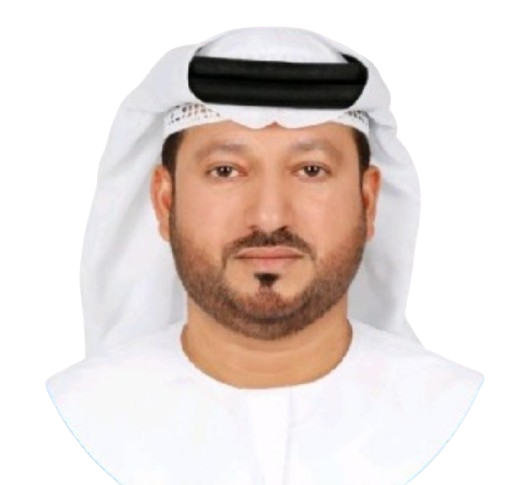
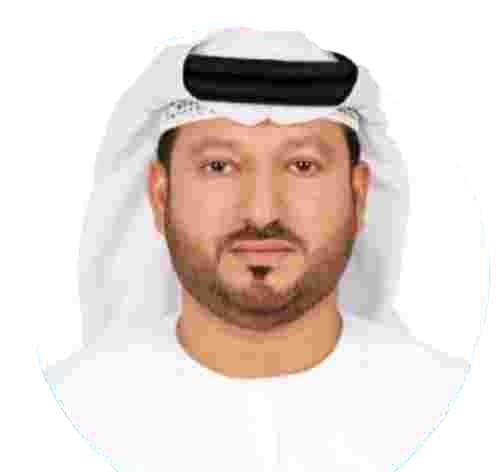
image-blur

diff --git a/src/components/digital-business-card.tsx b/src/components/digital-business-card.tsx
@@ -146,7 +146,7 @@ const DigitalBusinessCard = () => {
               transition={{ duration: 0.5, delay: 0.3 }}
               className="text-center"
             >
-              <div className="w-28 h-28 mx-auto rounded-full mb-4 border-4 border-primary-foreground/30 overflow-hidden shadow-xl">
+              <div className="w-28 h-28 mx-auto rounded-full bg-white dark:bg-white mb-4 border-4 border-primary-foreground/30 overflow-hidden shadow-xl">
                 <Image
                   src="./zuhair.png"
                   width={200}
@@ -212,44 +212,7 @@ const DigitalBusinessCard = () => {
                 variant="primary"
               />
               <SocialButton href="http://goldman.ae" icon={<Globe />} variant="primary" />
-            </motion.div>
-            <motion.div
-              initial={{ opacity: 0, y: 20 }}
-              animate={{ opacity: 1, y: 0 }}
-              transition={{ duration: 0.5, delay: 1.0 }}
-              className="flex justify-center gap-4 mt-6"
-            >
-              <Link href='https://goldmanproperties.ae/' 
-                className="w-20 h-20 border-primary-foreground/30 dark:bg-white border-black shadow-black rounded-full overflow-hidden shadow-lg flex items-center justify-center">
-                <Image 
-                  src="./Goldman-Properties.png" 
-                  width={50} 
-                  height={50} 
-                  alt="Goldman Properties Logo" 
-                  className="w-18 h-20 bg-secondary dark:bg-white object-contain cursor-pointer" 
-                />
-              </Link>
-              <Link href='https://arabarch.ae/' 
-                className="w-20 h-20 border-primary-foreground/30 dark:bg-white border-black shadow-black rounded-full overflow-hidden shadow-lg flex items-center justify-center">
-                <Image 
-                  src="./ArabArch.png" 
-                  width={50} 
-                  height={50} 
-                  alt="ArabArch Logo" 
-                  className="w-28 h-10 bg-secondary dark:bg-white object-contain cursor-pointer" 
-                />
-              </Link>
-              <Link href='https://goldman.ae/al-fahidi-services/' 
-                className="w-20 h-20 border-primary-foreground/30 dark:bg-white border-black shadow-black rounded-full overflow-hidden shadow-lg flex items-center justify-center">
-                <Image 
-                  src="./alfahidi.png" 
-                  width={50} 
-                  height={50} 
-                  alt="Alfahidi Logo"
-                  className="w-28 h-10 bg-secondary dark:bg-white object-contain cursor-pointer" 
-                />
-              </Link>
-            </motion.div>
+            </motion.div>            
           </motion.div>
 
           {/* Portfolio Toggle Button */}
@@ -316,6 +279,45 @@ const DigitalBusinessCard = () => {
               </CardContent>
             </Card>
           </motion.div>
+
+          {/* Logos */}
+          <motion.div
+              initial={{ opacity: 0, y: 20 }}
+              animate={{ opacity: 1, y: 0 }}
+              transition={{ duration: 0.5, delay: 1.0 }}
+              className="flex justify-center gap-4 mt-6"
+            >
+              <Link href='https://goldmanproperties.ae/' 
+                className="w-20 h-20 border-primary-foreground/30 bg-white dark:bg-white border-black shadow-black rounded-full overflow-hidden shadow-lg flex items-center justify-center">
+                <Image 
+                  src="./Goldman-Properties.png" 
+                  width={50} 
+                  height={50} 
+                  alt="Goldman Properties Logo" 
+                  className="w-18 h-20 bg-secondary dark:bg-white object-contain cursor-pointer" 
+                />
+              </Link>
+              <Link href='https://arabarch.ae/' 
+                className="w-20 h-20 border-primary-foreground/30 bg-white dark:bg-white border-black shadow-black rounded-full overflow-hidden shadow-lg flex items-center justify-center">
+                <Image 
+                  src="./ArabArch.png" 
+                  width={50} 
+                  height={50} 
+                  alt="ArabArch Logo" 
+                  className="w-28 h-10 bg-secondary dark:bg-white object-contain cursor-pointer" 
+                />
+              </Link>
+              <Link href='https://goldman.ae/al-fahidi-services/' 
+                className="w-20 h-20 border-primary-foreground/30 bg-white dark:bg-white border-black shadow-black rounded-full overflow-hidden shadow-lg flex items-center justify-center">
+                <Image 
+                  src="./alfahidi.png" 
+                  width={50} 
+                  height={50} 
+                  alt="Alfahidi Logo"
+                  className="w-28 h-10 bg-secondary dark:bg-white object-contain cursor-pointer" 
+                />
+              </Link>
+            </motion.div>
 
           {/* Footer */}
           <motion.div
